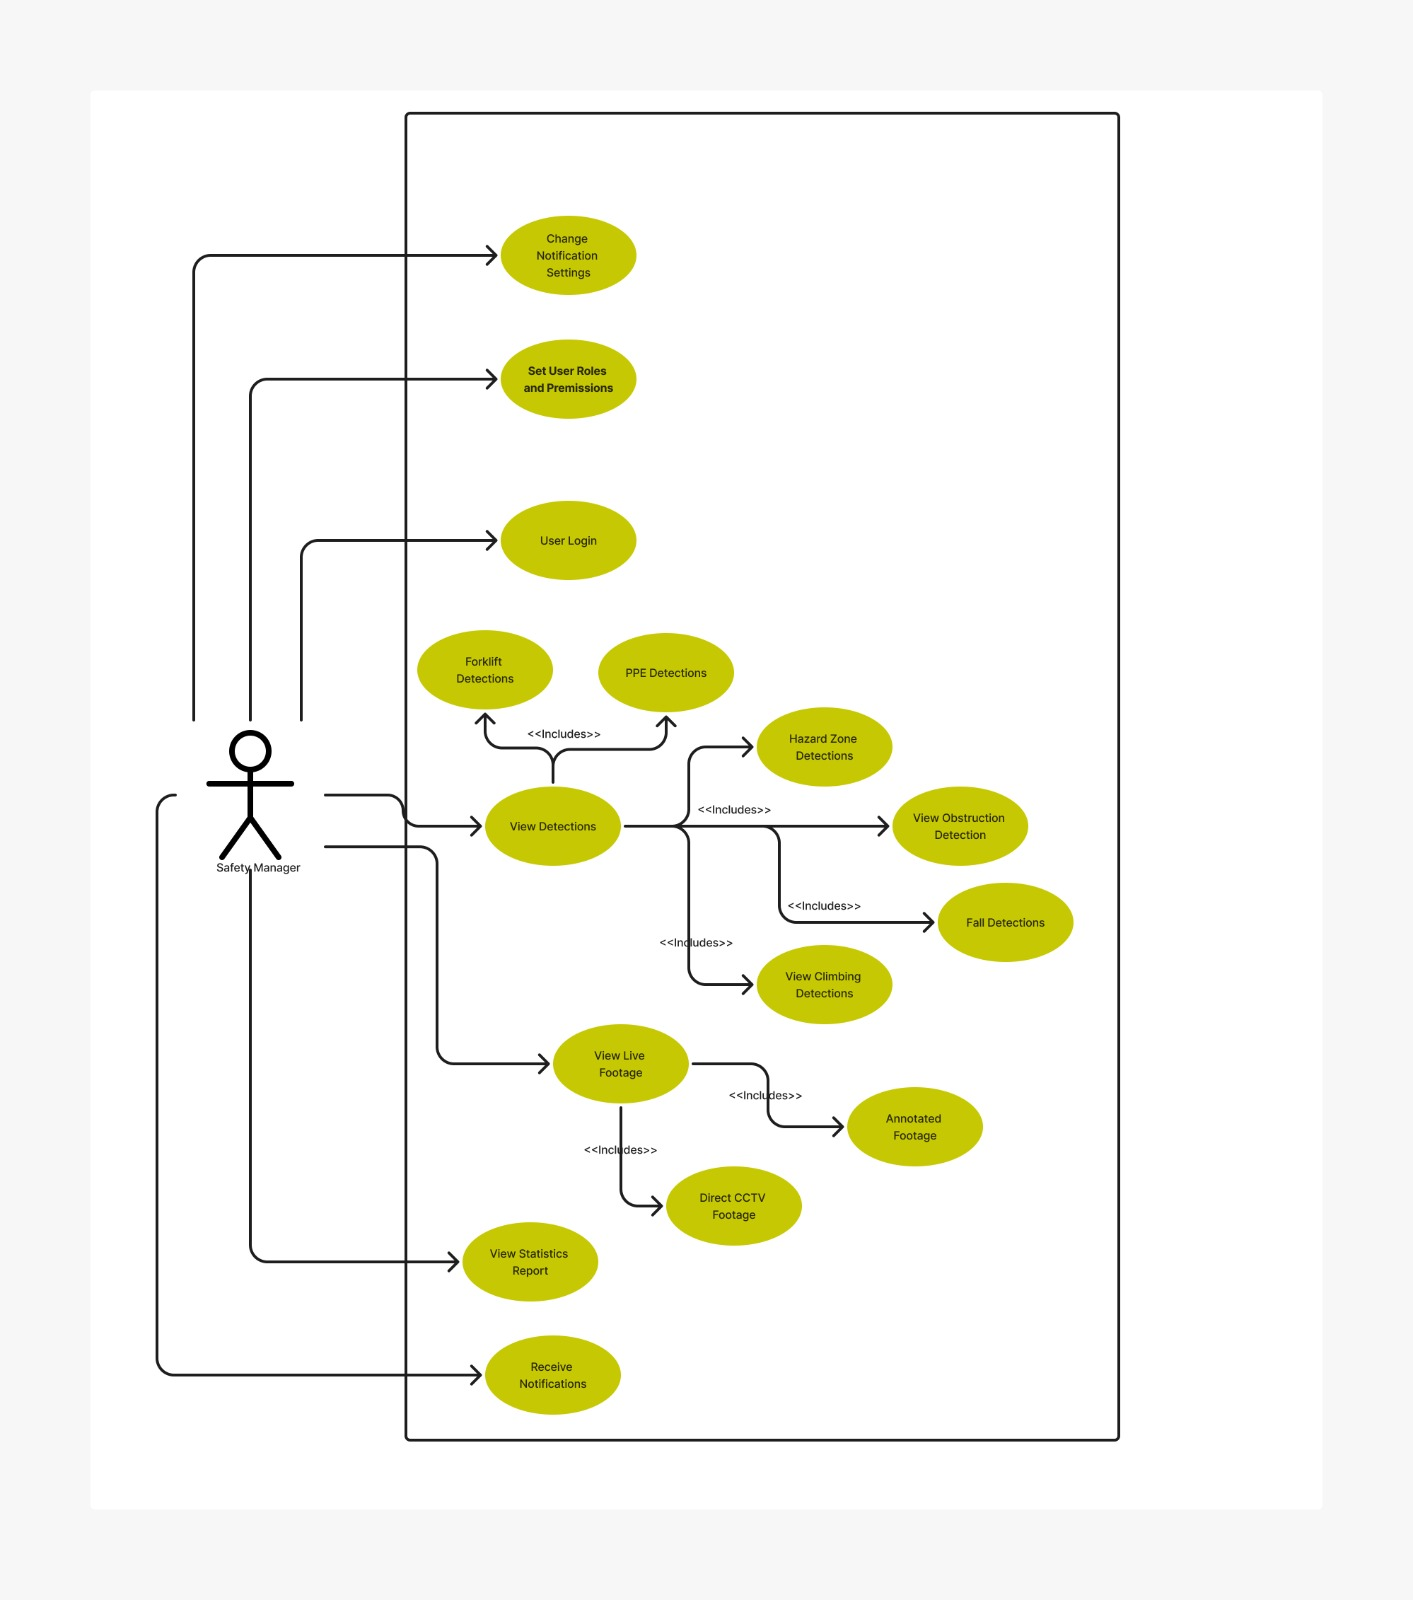
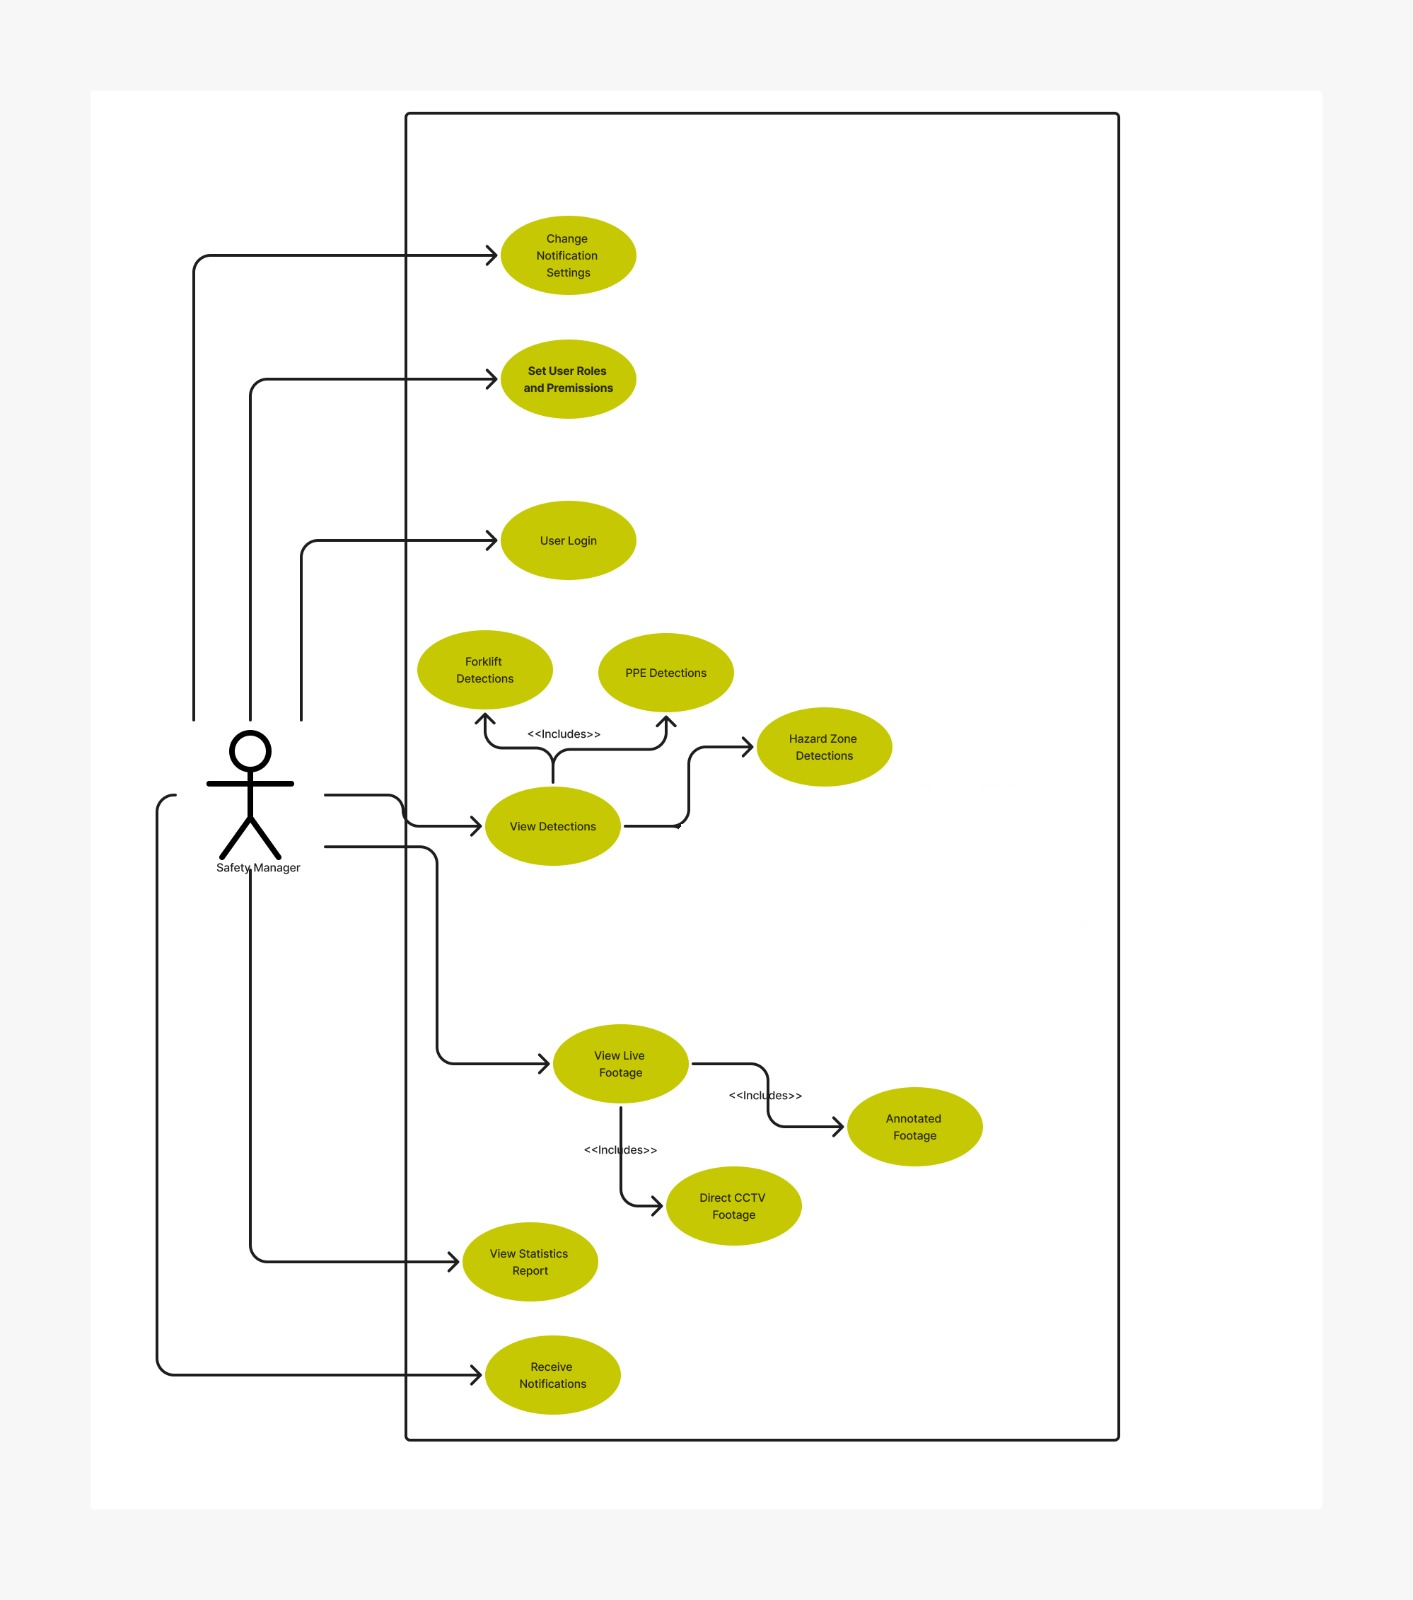
Added some results

diff --git a/Kaavish Docs/FinalDraft/main.tex b/Kaavish Docs/FinalDraft/main.tex
@@ -515,7 +515,8 @@ The results after testing the model was as follows:
 \end{table}
 
 \subsubsection{Final Round of Annotaions}
-\begin{table}[ht]
+The following table is the result of a manual annotation effort on 726 additional images brining us to 18,000 total object instances. Notably, the forklift category yields the highest scores due to its large and obvious pictorial characteristics.
+\begin{table}[H]
     \centering
     \caption{Initial Results}
     \begin{tabular}{lcccc}
@@ -532,7 +533,7 @@ The results after testing the model was as follows:
     Shoes     & 488  & 86.6 & 84.8 & 87.1 \\
     \hline
     \end{tabular}
-    \label{tab:initial-results}
+    \label{tab:Final-Results}
 \end{table}
     
 
@@ -541,11 +542,11 @@ The results after testing the model was as follows:
   \subsubsection{Hyperparitamization: Overcoming Overfitting}
   We used our University's HPC machine powered by an NVIDIA TITAN RTX GPU to train our models. The training was done using the YOLOv9 framework. We used the following hyperparameters to train our models:
 \begin{itemize}
-    \item /itemize{Batch Size:} 16
-    \item /itemize{Epochs:} 300
-    \item /itemize{Learning Rate:} 0.001
-    \item /itemize{Optimizer:} AdamW
-    \item /itemize{Model:} YOLOv9m (20M Parameters)
+    \item {Batch Size:} 16
+    \item {Epochs:} 300
+    \item {Learning Rate:} 0.001
+    \item {Optimizer:} AdamW
+    \item {Model:} YOLOv9m (20M Parameters)
 \end{itemize}
 
 \subsection{Hazard Logic and Function Implementation}
@@ -816,7 +817,7 @@ We further optimized the system by Inferencing through Nvidia TensorRT backend i
 
   \subsection{Creation of Hazard Testing Dataset}
 
-\section{Conclusion and Discussion}
+\section{Discussion and Further Work}
 
 \section{Appendix: Classes}
 
